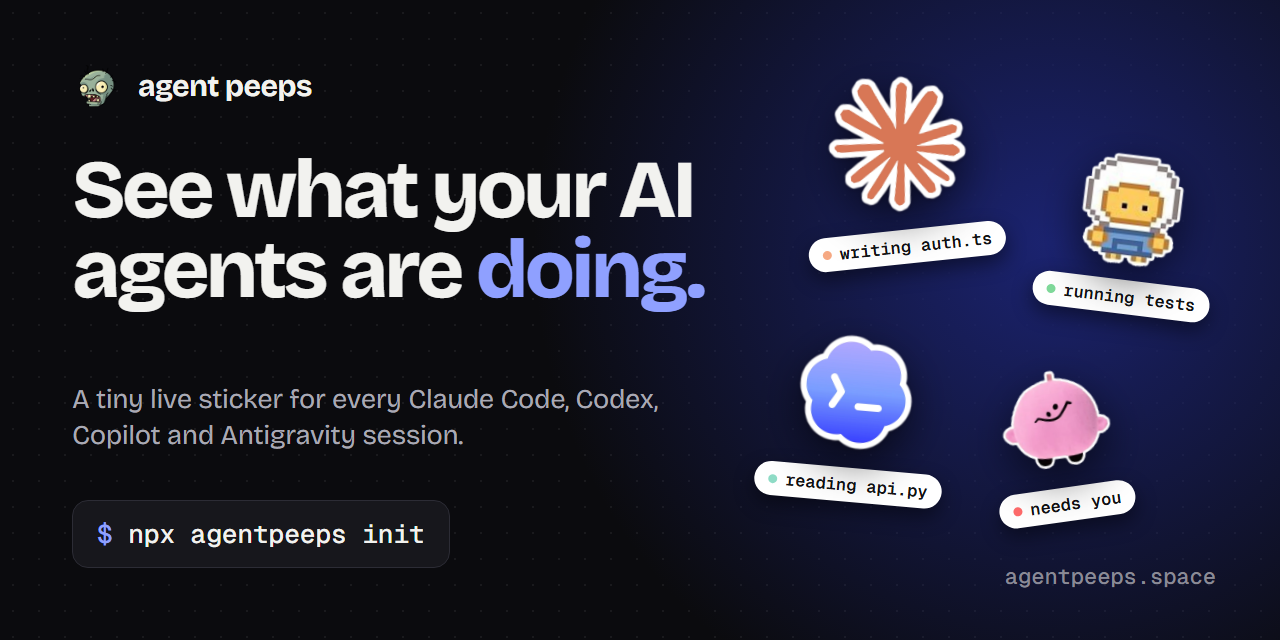
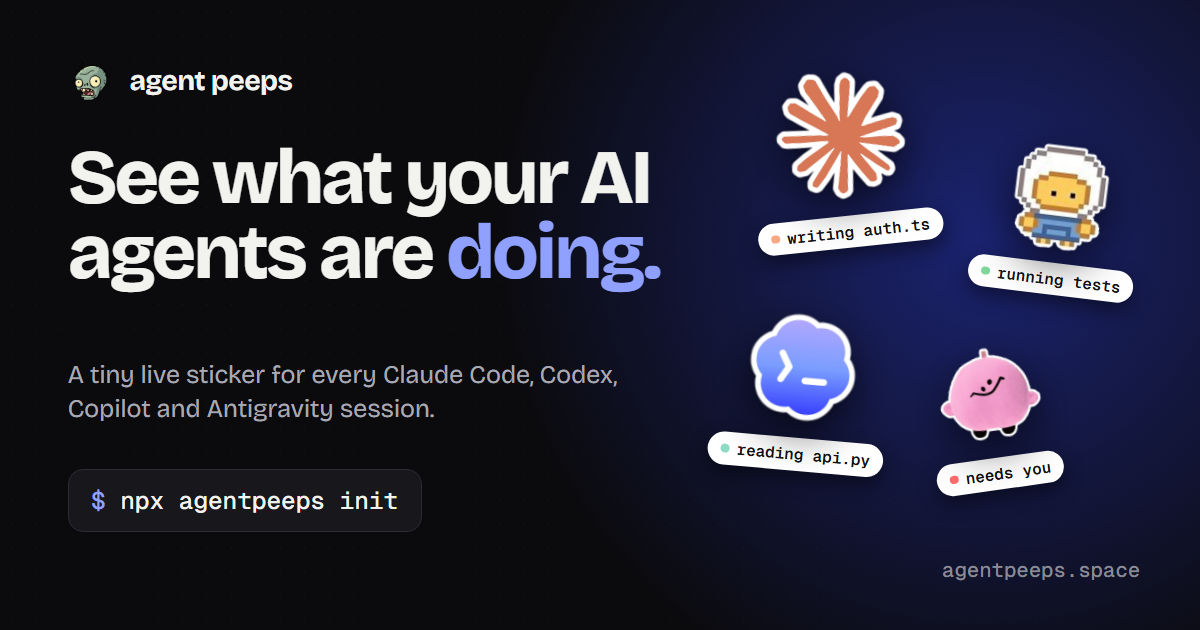
Social card at 1200x630; titles under 60 and descriptions under 160 characters

diff --git a/website/web/index.html b/website/web/index.html
@@ -3,22 +3,22 @@
 <head>
 <meta charset="utf-8" />
 <meta name="viewport" content="width=device-width, initial-scale=1" />
-<title>Agent Peeps · Stickers that show what your AI agents are doing</title>
-<meta name="description" content="Agent Peeps puts a small sticker on your screen for every Claude Code, Codex, Copilot and Antigravity session, with a line icon for what it is doing. Free, local, MIT." />
+<title>Agent Peeps: see what your AI coding agents are doing</title>
+<meta name="description" content="A tiny live sticker for every Claude Code, Codex, Copilot and Antigravity session, showing what each agent is doing. Free, local, MIT." />
 <link rel="canonical" href="https://www.agentpeeps.space/" />
 <meta name="theme-color" content="#0b0b0e" />
 <meta property="og:type" content="website" />
 <meta property="og:site_name" content="Agent Peeps" />
 <meta property="og:url" content="https://www.agentpeeps.space/" />
 <meta property="og:title" content="Agent Peeps: see what your AI coding agents are doing" />
-<meta property="og:description" content="A tiny live sticker for every Claude Code, Codex, Copilot and Antigravity session, with an icon for what it is doing. Free, local, MIT. Install: npx agentpeeps init" />
+<meta property="og:description" content="A tiny live sticker for every Claude Code, Codex, Copilot and Antigravity session, showing what each agent is doing. Free, local, MIT." />
 <meta property="og:image" content="https://www.agentpeeps.space/brand/social-card.png" />
-<meta property="og:image:width" content="1280" />
-<meta property="og:image:height" content="640" />
+<meta property="og:image:width" content="1200" />
+<meta property="og:image:height" content="630" />
 <meta property="og:image:alt" content="Agent Peeps: stickers showing Claude writing auth.ts, a helper running tests and one that needs you" />
 <meta name="twitter:card" content="summary_large_image" />
 <meta name="twitter:title" content="Agent Peeps: see what your AI coding agents are doing" />
-<meta name="twitter:description" content="A tiny live sticker for every Claude Code, Codex, Copilot and Antigravity session, with an icon for what it is doing. Free, local, MIT. Install: npx agentpeeps init" />
+<meta name="twitter:description" content="A tiny live sticker for every Claude Code, Codex, Copilot and Antigravity session, showing what each agent is doing. Free, local, MIT." />
 <meta name="twitter:image" content="https://www.agentpeeps.space/brand/social-card.png" />
 <script type="application/ld+json">
 {"@context":"https://schema.org","@type":"SoftwareApplication","name":"Agent Peeps","url":"https://www.agentpeeps.space/","image":"https://www.agentpeeps.space/brand/social-card.png",

diff --git a/website/web/stickers.html b/website/web/stickers.html
@@ -3,21 +3,21 @@
 <head>
 <meta charset="utf-8" />
 <meta name="viewport" content="width=device-width, initial-scale=1" />
-<title>Agent Peeps · Sticker shop</title>
+<title>400+ free stickers for your AI coding agents · Agent Peeps</title>
 <meta name="description" content="Every Agent Peeps sticker pack. Pick one for Claude, Codex and your helpers, watch them work, and copy the agentpeeps set commands." />
 <link rel="canonical" href="https://www.agentpeeps.space/stickers.html" />
 <meta name="theme-color" content="#0b0b0e" />
 <meta property="og:type" content="website" />
 <meta property="og:site_name" content="Agent Peeps" />
 <meta property="og:url" content="https://www.agentpeeps.space/stickers.html" />
-<meta property="og:title" content="Agent Peeps sticker shop: 400+ free stickers for your AI agents" />
+<meta property="og:title" content="400+ free stickers for your AI coding agents" />
 <meta property="og:description" content="Pick a sticker pack for Claude, Codex and your helpers, download any pack as one zip, and copy the agentpeeps set command." />
 <meta property="og:image" content="https://www.agentpeeps.space/brand/social-card.png" />
-<meta property="og:image:width" content="1280" />
-<meta property="og:image:height" content="640" />
+<meta property="og:image:width" content="1200" />
+<meta property="og:image:height" content="630" />
 <meta property="og:image:alt" content="Agent Peeps: stickers showing Claude writing auth.ts, a helper running tests and one that needs you" />
 <meta name="twitter:card" content="summary_large_image" />
-<meta name="twitter:title" content="Agent Peeps sticker shop: 400+ free stickers for your AI agents" />
+<meta name="twitter:title" content="400+ free stickers for your AI coding agents" />
 <meta name="twitter:description" content="Pick a sticker pack for Claude, Codex and your helpers, download any pack as one zip, and copy the agentpeeps set command." />
 <meta name="twitter:image" content="https://www.agentpeeps.space/brand/social-card.png" />
 <link rel="stylesheet" href="/src/style.css" />

diff --git a/website/web/docs.html b/website/web/docs.html
@@ -13,8 +13,8 @@
 <meta property="og:title" content="Agent Peeps docs" />
 <meta property="og:description" content="Install, every agentpeeps command, sticker packs, the control room, config.json, the event log, the VS Code extension and the Node API." />
 <meta property="og:image" content="https://www.agentpeeps.space/brand/social-card.png" />
-<meta property="og:image:width" content="1280" />
-<meta property="og:image:height" content="640" />
+<meta property="og:image:width" content="1200" />
+<meta property="og:image:height" content="630" />
 <meta property="og:image:alt" content="Agent Peeps: stickers showing Claude writing auth.ts, a helper running tests and one that needs you" />
 <meta name="twitter:card" content="summary_large_image" />
 <meta name="twitter:title" content="Agent Peeps docs" />
